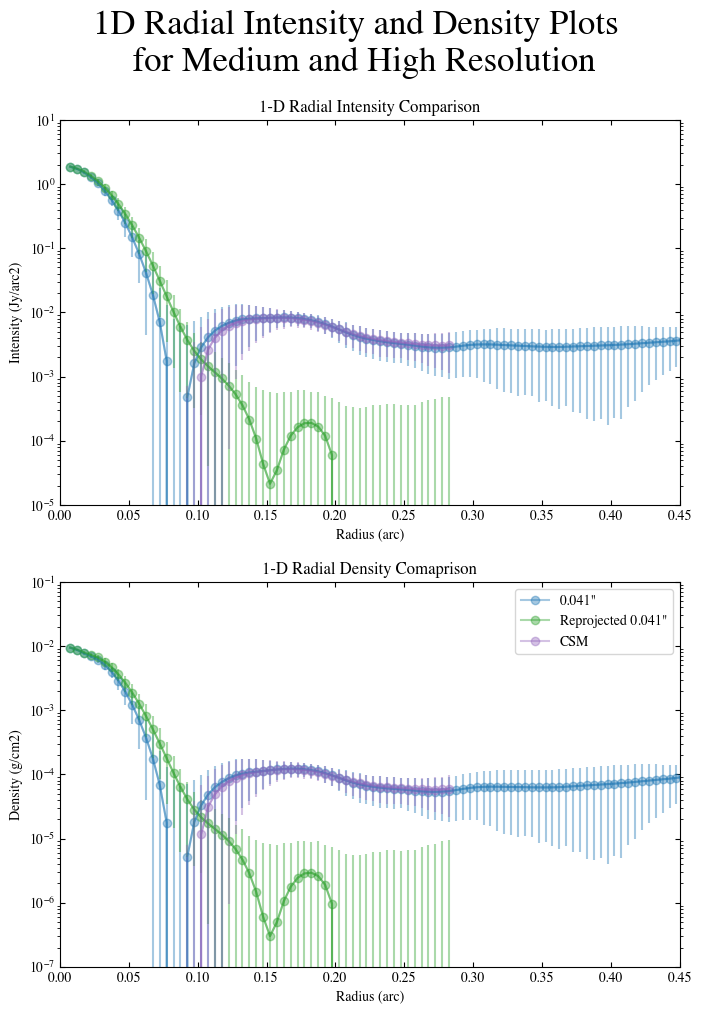
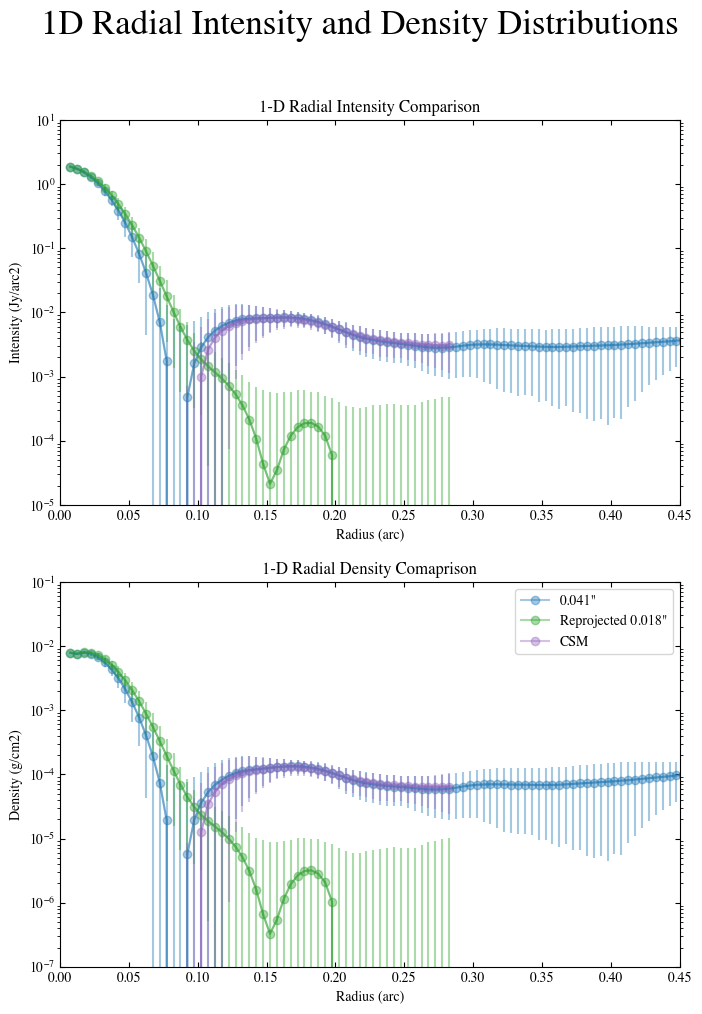
update

diff --git a/everything.py b/everything.py
@@ -122,14 +122,14 @@ def full_analysis(hr,lr):
 def plot_2d(data, info, vminmax, minn=-0.3, suptitle = "Intensity and Density Plots"):
 
     maxx=-minn #define x and y axis limits
-    titles = ['{res}" Intensity (Jy/arc2)'.format(res = np.round(info['hr']['kspatres'],3)),
-             '{res}" Intensity (Jy/arc2)'.format(res = np.round(info['lr']['kspatres'],3)),
-               '{res}" After Reprojection Intensity (Jy/arc2)'.format(res = np.round(info['hr']['kspatres'],3)), 
-               "Circumstellar Material Intensity (Jy/arc2)", 
-          '{res}" Density (g/cm2)'.format(res = np.round(info['hr']['kspatres'],3)), 
-          '{res}" Density (g/cm2)'.format(res = np.round(info['lr']['kspatres'],3)), 
-          '{res}" After Reprojection Density (g/cm2)'.format(res = np.round(info['hr']['kspatres'],3)), 
-          "Circumstellar Material Density (g/cm2)"]
+    titles = ['{res}"'.format(res = np.round(info['hr']['kspatres'],3)) + r' Intensity (Jy arc$^{-2}$)',
+              '{res}"'.format(res = np.round(info['lr']['kspatres'],3)) + r' Intensity (Jy arc$^{-2}$)',
+              '{res}"'.format(res = np.round(info['hr']['kspatres'],3)) + r' After Reprojection Intensity (Jy arc$^{-2}$)',
+               r'Circumstellar Material Intensity (Jy arc$^{-2}$)', 
+          '{res}"'.format(res = np.round(info['hr']['kspatres'],3)) + r' Density (g cm$^{-2}$)', 
+          '{res}"'.format(res = np.round(info['lr']['kspatres'],3)) + r' Density (g cm$^{-2}$)', 
+          '{res}"'.format(res = np.round(info['hr']['kspatres'],3)) + r' After Reprojection Density (g cm$^{-2}$)', 
+          r'Circumstellar Material Density (g cm$^{-2}$)']
     
     title = ['hr','lr','reproj','csm', 'hr_dens','lr_dens', 'reproj_dens','csm_dens']
     
@@ -236,7 +236,7 @@ def plot_1d(data_1d,data_dens_1d,info,radius,ax1_ymin=1e-2,ax2_ymin=1e-3, ax1_ym
     title = ['hr','lr','reproj','csm', 'hr_dens','lr_dens', 'reproj_dens','csm_dens']
     labels = ['{res}"'.format(res = np.round(info['hr']['kspatres'],3)),
              '{res}"'.format(res = np.round(info['lr']['kspatres'],3)),
-            'Reprojected {res}"'.format(res = np.round(info['lr']['kspatres'],3)),
+            'Reprojected {res}"'.format(res = np.round(info['hr']['kspatres'],3)),
             "CSM"]    
     
 
@@ -297,7 +297,7 @@ def plot_1d_skip(data_1d,data_dens_1d,info,radius,ax1_ymin=1e-2,ax2_ymin=1e-3, a
 
     title = ['lr','reproj','csm', 'lr_dens', 'reproj_dens','csm_dens']
     labels = ['{res}"'.format(res = np.round(info['lr']['kspatres'],3)),
-              'Reprojected {res}"'.format(res = np.round(info['lr']['kspatres'],3)),
+              'Reprojected {res}"'.format(res = np.round(info['hr']['kspatres'],3)),
                "CSM"]    
 
 
